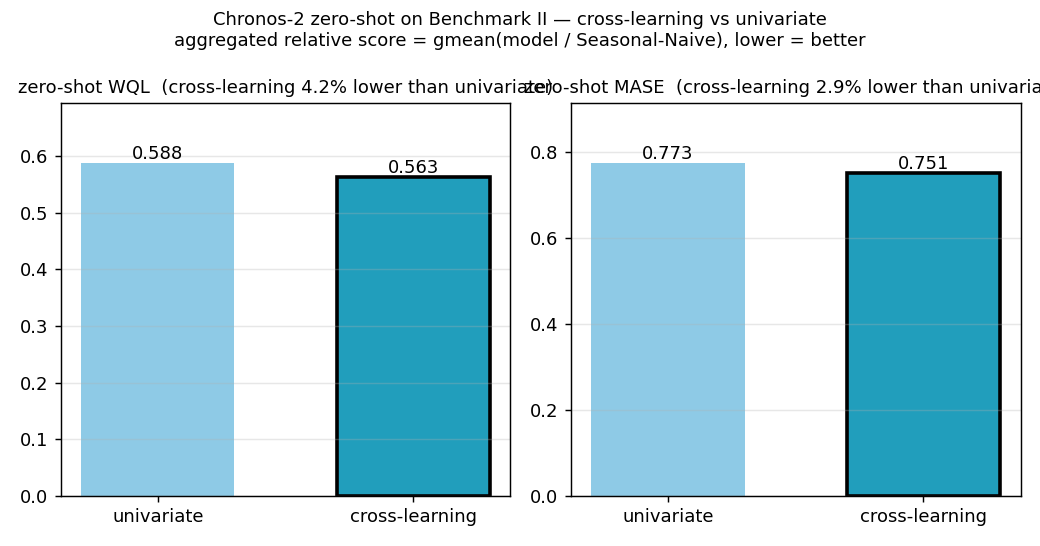
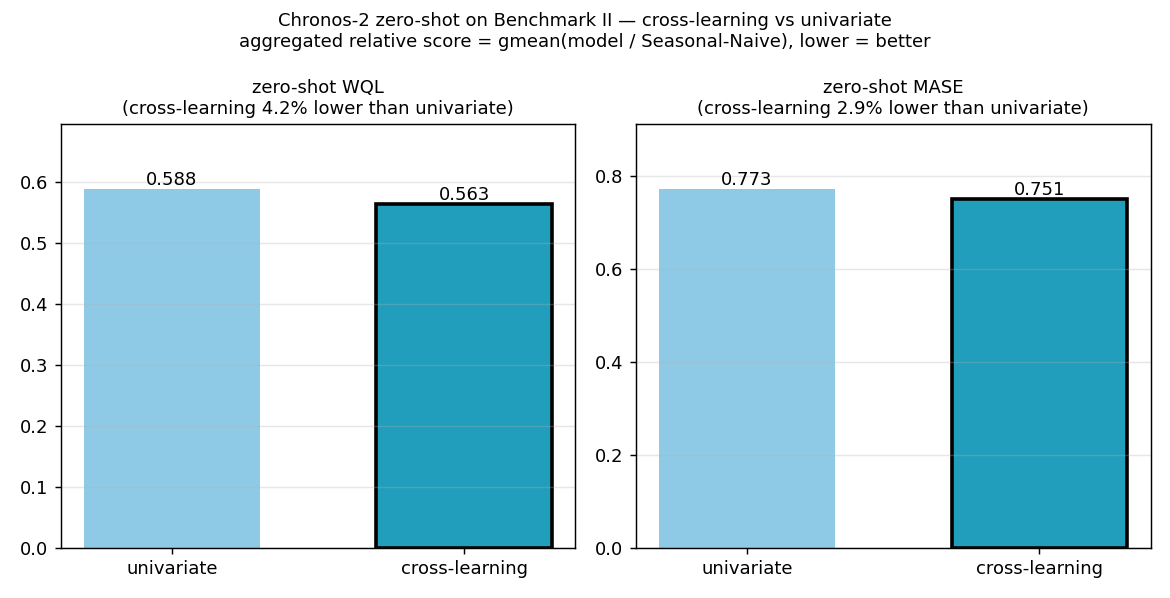
plot: widen zeroshot-modes figure and wrap subplot titles

Changed region(s): [[0.0, 0.1245, 1.0, 0.9652], [0.1538, 0.0, 0.8308, 0.0934]]

diff --git a/Chronos2/src/zero_shot/plot_zeroshot_modes.py b/Chronos2/src/zero_shot/plot_zeroshot_modes.py
@@ -32,7 +32,7 @@ def main():
     labels = list(configs)
     colors = ["#8ecae6", "#219ebc"]
 
-    fig, axes = plt.subplots(1, 2, figsize=(8, 4.2))
+    fig, axes = plt.subplots(1, 2, figsize=(9, 4.6))
     for ax, metric in zip(axes, ["WQL", "MASE"]):
         vals = [configs[k][metric] for k in labels]
         bars = ax.bar(labels, vals, color=colors, width=0.6)
@@ -41,7 +41,7 @@ def main():
         for b, v in zip(bars, vals):
             ax.text(b.get_x() + b.get_width() / 2, v, f"{v:.3f}", ha="center", va="bottom", fontsize=10)
         drop = (vals[0] - vals[1]) / vals[0] * 100      # cross-learning improvement over univariate
-        ax.set_title(f"zero-shot {metric}  (cross-learning {drop:.1f}% lower than univariate)", fontsize=10)
+        ax.set_title(f"zero-shot {metric}\n(cross-learning {drop:.1f}% lower than univariate)", fontsize=10)
         ax.set_ylim(0, max(vals) * 1.18)
         ax.grid(axis="y", alpha=0.3)
     fig.suptitle("Chronos-2 zero-shot on Benchmark II — cross-learning vs univariate\n"
